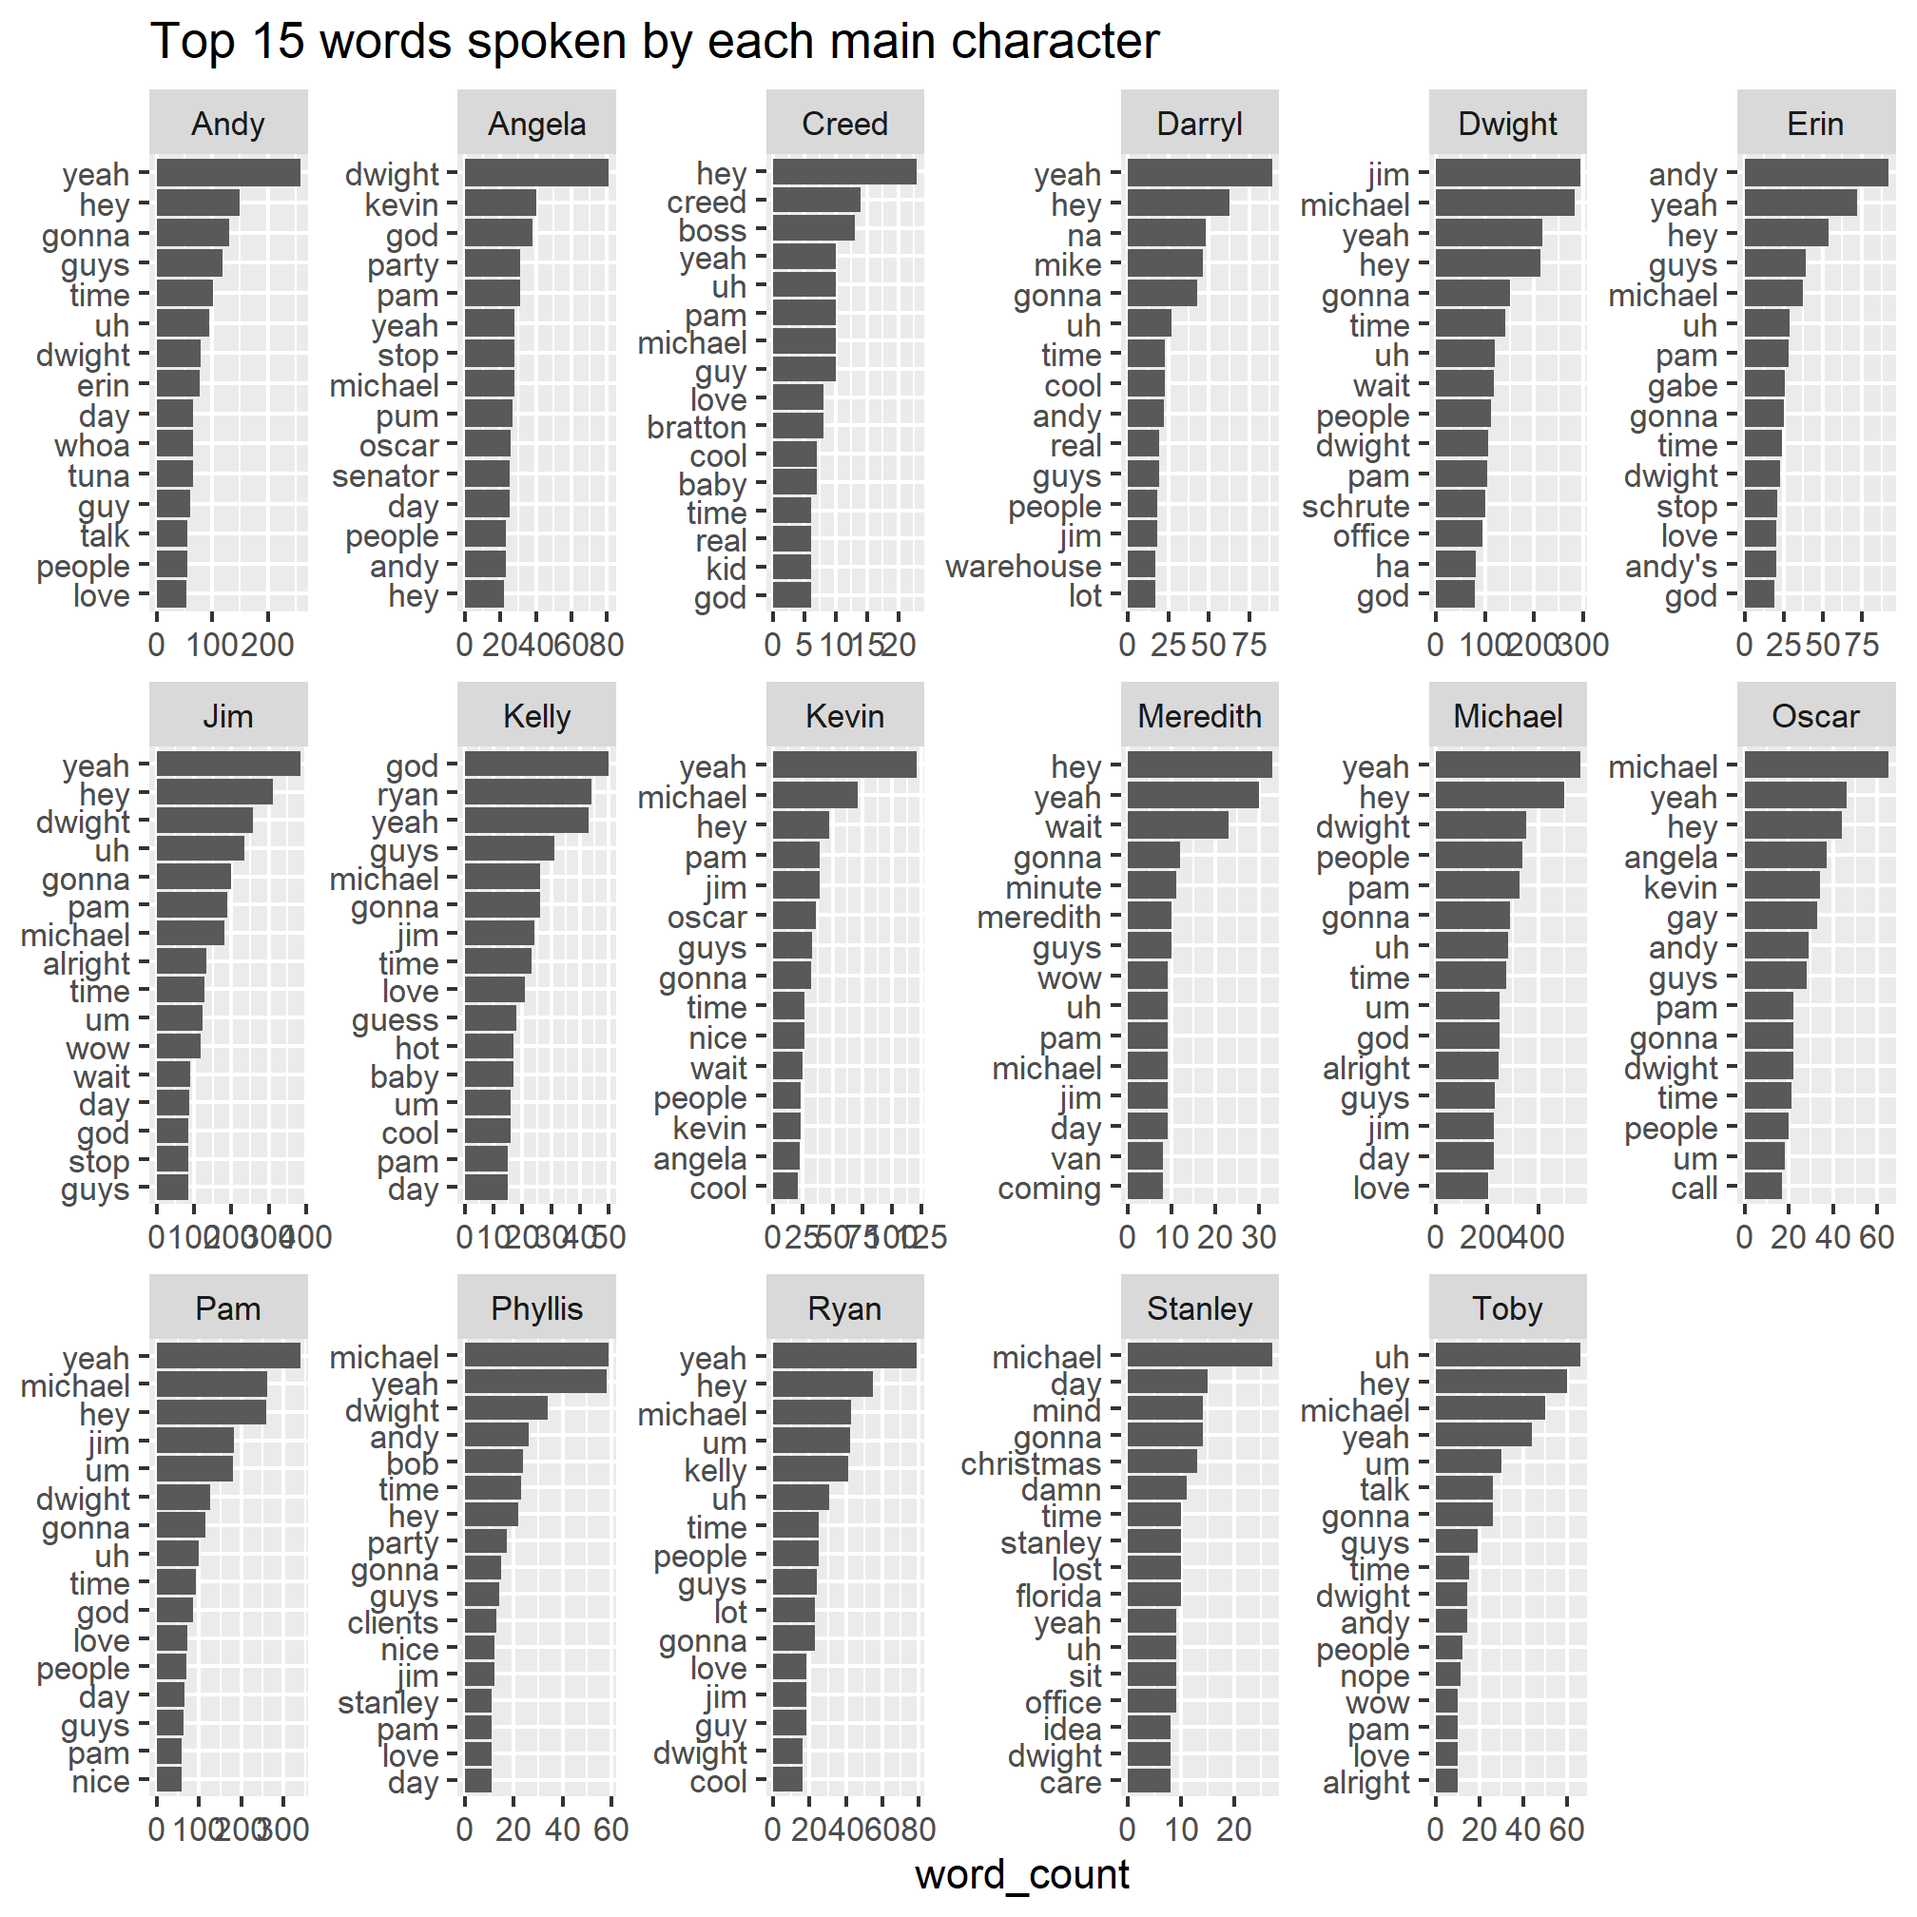
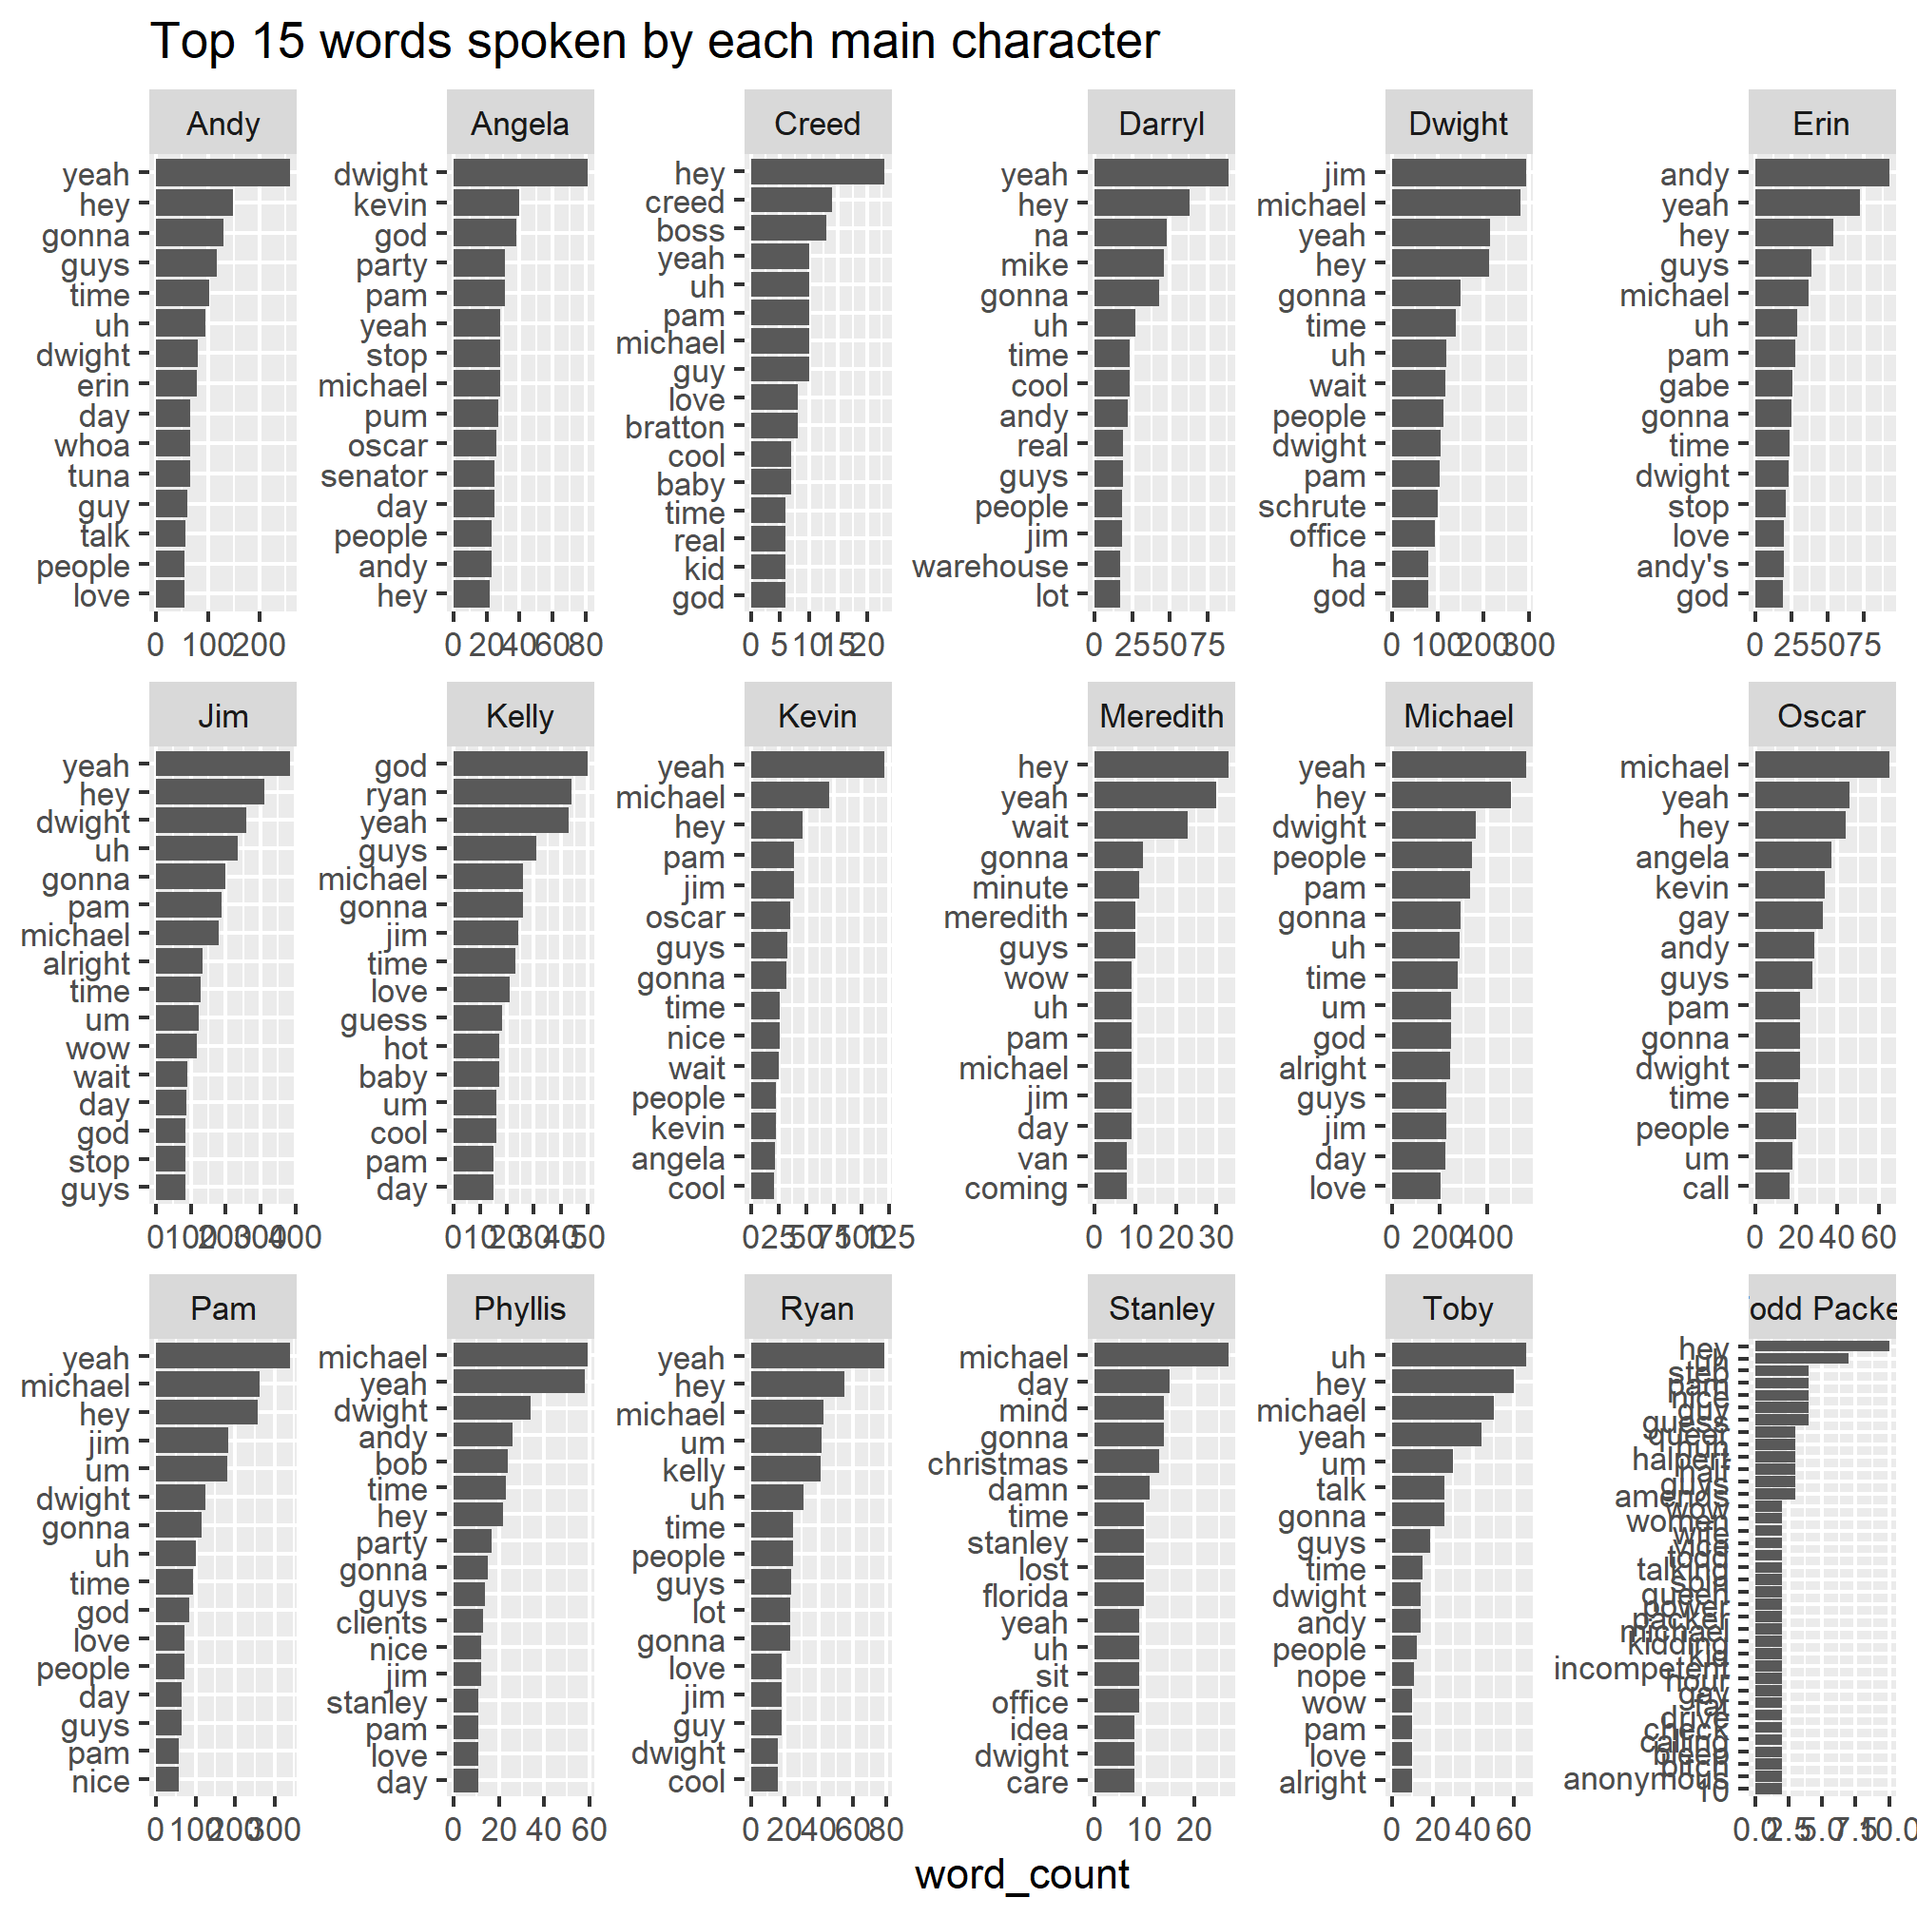
cleanup

diff --git a/tt_office.md b/tt_office.md
@@ -14,6 +14,8 @@ Portland R Users Meetup - Tidy Tuesday Coding Club
         character](#question---choose-characters-that-appear-in-many-episodes-plot-line-count-vs-ratings-with-facet-by-character)
       - [Question - most common words spoken by the above
         characters?](#question---most-common-words-spoken-by-the-above-characters)
+      - [Future question: topic
+        analysis?](#future-question-topic-analysis)
 
 ## Group coding portion - Pierrette, Nell, Ted, Aaron
 
@@ -136,6 +138,10 @@ main_char <- line_count_characters %>%
   filter(total_episodes > 90) %>% 
   pull(character) 
 
+# add Todd Packer, just because
+
+main_char <- c(main_char, "Todd Packer")
+
 # use {tidytext} to unnest lines into words
 
 token_data <- mydata %>%
@@ -184,3 +190,8 @@ wordcount_data %>%
 
 I thought this was more illuminating than the ratings analysis,
 especially if you’re familiar with the show.
+
+Issue: Todd Packer doesn’t have a lot of lines, so his top\_n(15) words
+is actually a lot more than 15 due to ties. How to handle this?
+
+### Future question: topic analysis?
